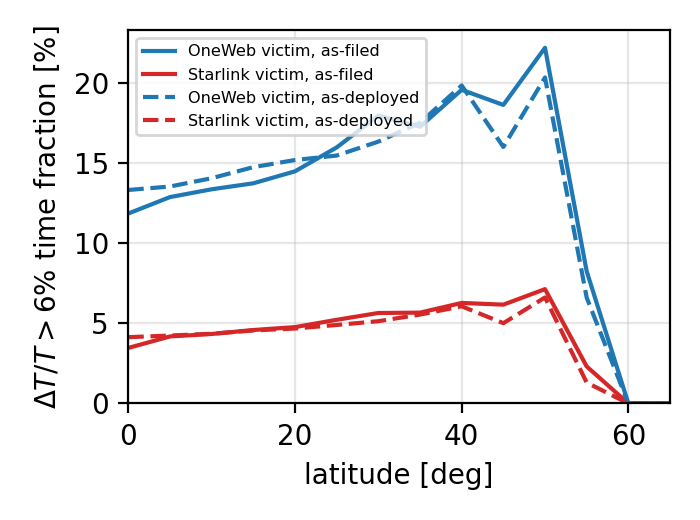
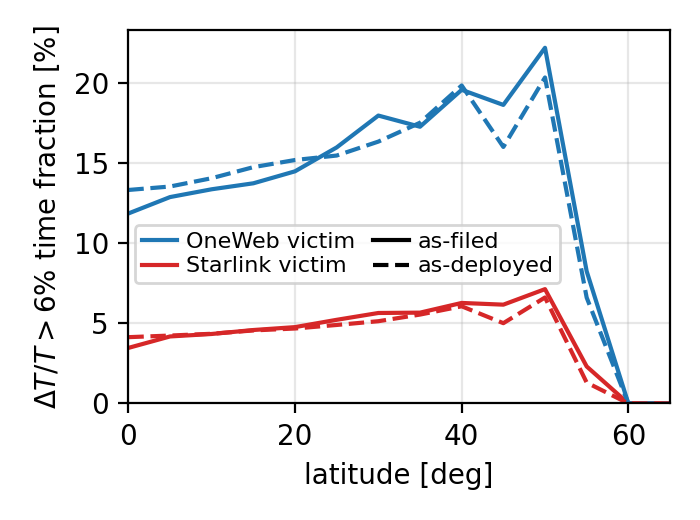
Fig. 1: 2x2 legend key (colour = victim, style = filing) between the curves
fig_b1_events only: legend moved from upper left (1 column, 5.8 pt) to a
2-column split key at 8 pt, centre left at y ~7.5-11.1 %, light frame. A
10 pt 2-column legend does not fit the 3.5 in figure; at 8 pt no curve
sample falls inside the legend box. Figure size, axes, colours, line
styles and plotted data unchanged (e4/e5 arrays identical before/after).
Paper: 6 pages, 0 errors, 0 LaTeX warnings; 152 tests pass.

Changed region(s): [[0.18, 0.0615, 0.63, 0.2769], [0.18, 0.4308, 0.81, 0.5538]]

diff --git a/figures/make_figures.py b/figures/make_figures.py
@@ -582,7 +582,14 @@ def fig_b1_events(e4: Path, e5: Path) -> Path | None:
     ax.set_xlim(0, 65)
     ax.set_ylim(bottom=0)
     ax.grid(alpha=0.3)
-    ax.legend(fontsize=5.8, loc="upper left", ncol=1)
+    # Colour = victim, line style = filing: the 2x2 key fits between the curves (y ~7.5-11 %).
+    from matplotlib.lines import Line2D
+    keys = [Line2D([], [], color="#1f77b4", lw=1.5), Line2D([], [], color="#d62728", lw=1.5),
+            Line2D([], [], color="k", lw=1.5, ls="-"), Line2D([], [], color="k", lw=1.5, ls="--")]
+    ax.legend(keys, ["OneWeb victim", "Starlink victim", "as-filed", "as-deployed"],
+              fontsize=8, ncol=2, loc="center left", bbox_to_anchor=(0.0, 0.40),
+              handlelength=1.6, handletextpad=0.4, columnspacing=0.8, borderpad=0.3,
+              labelspacing=0.2, borderaxespad=0.3, framealpha=0.8)
     fig.tight_layout()
     out = PAPER_FIG_DIR / "B1_events_both.png"
     PAPER_FIG_DIR.mkdir(parents=True, exist_ok=True)
